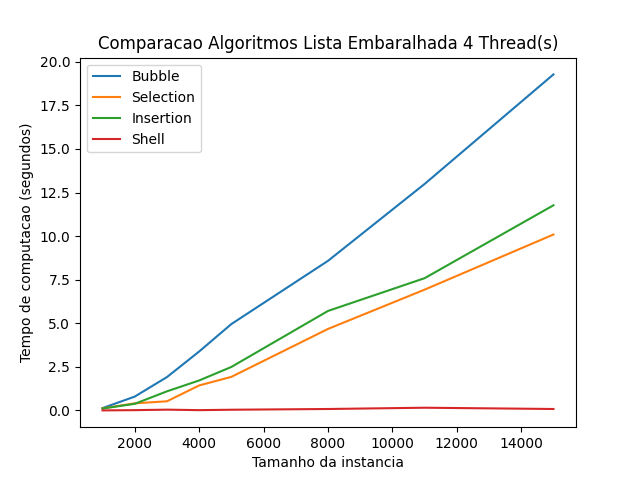
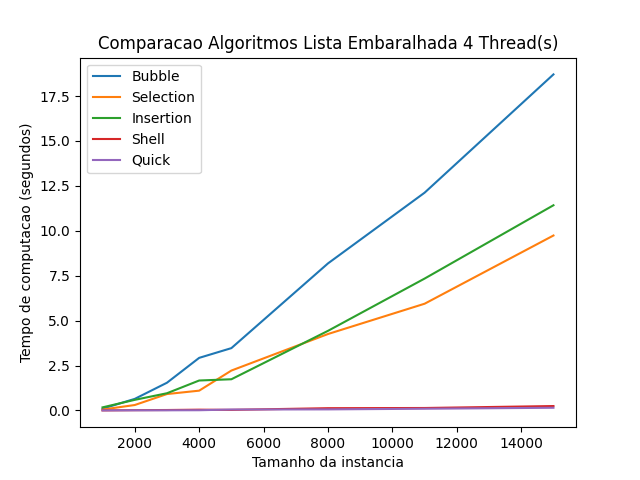
Quick Sort

diff --git a/Quick/Test.py b/Quick/Test.py
@@ -1,0 +1,216 @@
+
+from Quick import Quick
+from concurrent.futures import ProcessPoolExecutor
+import matplotlib.pyplot as plt
+import time
+import sys
+import random
+import matplotlib as mpl
+mpl.use('Agg')
+
+
+class SortAlgorithmTester:
+
+    def create_random_list(self, size) -> list:
+        x = list(range(size))
+        random.shuffle(x)
+        return x
+
+    def worst_case_instance(self, size) -> list:
+        """
+        Retorna uma lista decrescente de tamanho "size"
+        """
+        return list(range(size))[::-1]
+
+    def time_it(self, algorithm, algorithm_name, random_list, instance_size, parameters, label=None) -> dict:
+        if len(parameters) == 1:
+            start = time.time()
+            algorithm(random_list, parameters[0])
+            end = time.time()
+        elif len(parameters) == 2:
+            start = time.time()
+            algorithm(random_list, parameters[0], parameters[1])
+            end = time.time()
+        else:
+            start = time.time()
+            algorithm(random_list, parameters[0])
+            end = time.time()
+        if label:
+            print(f"{label} -> elementos: {instance_size} segundos: %.3f" %
+                  (end - start))
+        return {algorithm_name: [instance_size, end - start]}
+
+    def plot_in_lines_threaded(self, data, cv, label) -> None:
+        x = []
+        y = []
+        for i in range(len(data)):
+            result = data[i].result()
+            x.append(list(result.values())[0][0])
+            y.append(list(result.values())[0][1])
+            print(f"{label} -> elementos: {x[i]} segundos: %.3f" % y[i])
+        cv.plot(x, y, label=label)
+
+    def plot_in_lines(self, data, cv, label) -> None:
+        x = []
+        y = []
+        for i in range(len(data)):
+            result = data[i]
+            x.append(list(result.values())[0][0])
+            y.append(list(result.values())[0][1])
+        cv.plot(x, y, label=label)
+
+    def worst_case_test_threaded(self, algorithms, algorithms_names, instance_sizes, parameters, max_workers=None) -> list:
+        ##### Cronometrar os algoritmos ######
+        futures = []
+        pool = ProcessPoolExecutor(max_workers=max_workers)
+        for i in range(len(algorithms)):
+            random_list = self.worst_case_instance(
+                instance_sizes[i])
+            futures.append(pool.submit(
+                self.time_it, algorithms[i], algorithms_names[i], random_list, instance_sizes[i], parameters[i]))
+        return futures
+        ######################################
+
+    def worst_case_test(self, algorithms, algorithms_names, instance_sizes, parameters) -> list:
+        ##### Cronometrar os algoritmos ######
+        futures = []
+        for i in range(len(algorithms)):
+            worst = self.worst_case_instance(
+                instance_sizes[i])
+            futures.append(
+                self.time_it(
+                    algorithms[i], algorithms_names[i], worst, instance_sizes[i], parameters[i], "Pior Caso")
+            )
+        return futures
+        ######################################
+
+    def random_test_threaded(self, algorithms, algorithms_names, instance_sizes, parameters, max_workers=None) -> list:
+        ##### Cronometrar os algoritmos ######
+        futures = []
+        pool = ProcessPoolExecutor(max_workers=max_workers)
+        for i in range(len(algorithms)):
+            random_list = self.create_random_list(instance_sizes[i])
+            futures.append(pool.submit(
+                self.time_it, algorithms[i], algorithms_names[i], random_list, instance_sizes[i], parameters[i]))
+        return futures
+        ######################################
+
+    def random_test(self, algorithms, algorithms_names, instance_sizes, parameters) -> list:
+        ##### Cronometrar os algoritmos ######
+        futures = []
+        for i in range(len(algorithms)):
+            random_list = self.create_random_list(instance_sizes[i])
+            futures.append(
+                self.time_it(
+                    algorithms[i], algorithms_names[i], random_list, instance_sizes[i], parameters[i], "Aleatorio")
+            )
+        return futures
+        ######################################
+
+    
+
+    def plot_data(self, data_list, title, ylabel, xlabel, workers=None) -> None:
+        ###### Plotar os dados ###############
+        fig, ax = plt.subplots()
+        ax.yaxis.set_major_formatter(formater)
+        ax.xaxis.set_major_formatter(formater)
+        ax.set_ylabel(ylabel)
+        ax.set_xlabel(xlabel)
+        ax.set_title(title)
+        if workers:
+            for i in range(len(data_list)):
+                self.plot_in_lines_threaded(
+                    data_list[i][0], ax, data_list[i][1])
+            ax.legend()
+            fig.savefig(f'QuickSort{workers}Threads.png')
+        else:
+            for i in range(len(data_list)):
+                self.plot_in_lines(data_list[i][0], ax, data_list[i][1])
+            ax.legend()
+            fig.savefig(f'QuickSortSingleThread.png')
+        ######################################
+
+def formater(x, pos):
+        return '{:1.0f}'.format(x*1)
+
+if __name__ == "__main__":
+    if len(sys.argv) > 3 or len(sys.argv) < 2:
+        print("the parameters are: ('threaded' and int) or 'singlethreaded' ")
+    else:
+        if sys.argv[1] == "threaded":
+            try:
+                if int(sys.argv[2]) > 0:
+                    workers = int(sys.argv[2])
+            except Exception as e:
+                raise Exception("second parameter is not int!")
+            paralelizado = True
+        elif sys.argv[1] == "singlethreaded":
+            paralelizado = False
+        else:
+            raise Exception("parameter not identified!")
+        if paralelizado:
+            tester = SortAlgorithmTester()
+            start = time.time()
+            random_test_results = tester.random_test_threaded(
+                [
+                    Quick.crescent_quick
+                ]*6,
+                [
+                    "Quick"
+                ]*6,
+                [100000, 200000, 400000, 700000, 1000000, 5000000],
+                [
+                    [0, 100000-1],
+                    [0, 200000-1],
+                    [0, 400000-1],
+                    [0, 700000-1],
+                    [0, 1000000-1],
+                    [0, 5000000-1],
+                ],
+                workers
+            )
+
+            tester.plot_data(
+                [
+                    (random_test_results, "Aleatorio"),
+                ],
+                f"Comparacao QuickSort MultiThreaded ({workers} threads)",
+                "Tempo de computacao(segundos)",
+                "Tamanho da instancia",
+                workers
+            )
+            end = time.time()
+            print(f"tempo decorrido desde o inicio do teste: %.3f" %
+                  (end - start))
+        else:
+            tester = SortAlgorithmTester()
+            start = time.time()
+            random_test_results = tester.random_test(
+                [
+                    Quick.crescent_quick
+                ]*6,
+                [
+                    "Quick"
+                ]*6,
+                [100000, 200000, 400000, 700000, 1000000, 5000000],
+                [
+                    [0, 100000-1],
+                    [0, 200000-1],
+                    [0, 400000-1],
+                    [0, 700000-1],
+                    [0, 1000000-1],
+                    [0, 5000000-1],
+                ],
+            )
+
+            tester.plot_data(
+                [
+                    (random_test_results, "Aleatorio"),
+                ],
+                "Comparacao QuickSort Single Thread",
+                "Tempo de computacao (segundos)",
+                "Tamanho da instancia"
+            )
+            end = time.time()
+            print(f"tempo decorrido desde o inicio do teste: %.3f" %
+                  (end - start))

diff --git a/Main.py b/Main.py
@@ -8,7 +8,7 @@ from Bubble.Bubble import Bubble
 from Selection.Selection import Selection
 from Insertion.Insertion import Insertion
 from Shell.Shell import Shell
-
+from Quick.Quick import Quick
 
 class SortAlgorithmTester:
 
@@ -18,9 +18,14 @@ class SortAlgorithmTester:
         return x
 
     def time_it(self, algorithm, algorithm_name, random_list, instance_size, label=None) -> dict:
-        start = time.time()
-        algorithm(random_list, instance_size)
-        end = time.time()
+        if algorithm_name == "Quick":
+            start = time.time()
+            algorithm(random_list, 0, instance_size-1)
+            end = time.time()    
+        else:
+            start = time.time()
+            algorithm(random_list, instance_size)
+            end = time.time()
         if label:
             print(f"{label} -> elementos: {instance_size} segundos: %.3f" %
                   (end - start))
@@ -251,13 +256,15 @@ if __name__ == "__main__":
                         Bubble.crescent_sort,
                         Selection.crescent_selection,
                         Insertion.direct_crescent_insertion,
-                        Shell.crescent_shell
+                        Shell.crescent_shell,
+                        Quick.crescent_quick
                     ],
                     [
                         "Bubble",
                         "Selection",
                         "Insertion",
-                        "Shell"
+                        "Shell",
+                        "Quick"
                     ],
                     [
                         1000,
@@ -313,13 +320,15 @@ if __name__ == "__main__":
                         Bubble.crescent_sort,
                         Selection.crescent_selection,
                         Insertion.direct_crescent_insertion,
-                        Shell.crescent_shell
+                        Shell.crescent_shell,
+                        Quick.crescent_quick
                     ],
                     [
                         "Bubble",
                         "Selection",
                         "Insertion",
-                        "Shell"
+                        "Shell",
+                        "Quick"
                     ],
                     [
                         1000,

diff --git a/Merge/MergeSort.py b/Merge/MergeSort.py
@@ -13,20 +13,12 @@ class Merge():
 
         """
         if start < end:
-            if (start+end)%2 == 1:
-                if end - start == 1:
-                    middle = start
-                else:
-                    middle = ((start+end + 1)//2)
-            else:
-                middle = (start+end)//2
+            middle = (start+end)//2
             if start < middle:
-                sortable_list = Merge.crescent_sort(
-                    sortable_list, start, middle)
+                Merge.crescent_sort(sortable_list, start, middle)
             if middle + 1 < end:
-                sortable_list = Merge.crescent_sort(
-                    sortable_list, middle+1, end)
-            sortable_list = Merge.merge(sortable_list, start, middle, end)
+                Merge.crescent_sort(sortable_list, middle+1, end)
+            Merge.merge(sortable_list, start, middle, end)
         return sortable_list
 
     @staticmethod
@@ -53,12 +45,12 @@ class Merge():
                 sortable_list[end - middle + j] = sortable_list[j]
             for i in range(len(aux)):
                 sortable_list[i+start] = aux[i]
-        return sortable_list
+            return sortable_list
 
 
 if __name__ == "__main__":
     s = 20
     x = list(range(s))[::-1]
     random.shuffle(x)
-    print(x)
+    # print(x)
     print(Merge.crescent_sort(x, 0, len(x)-1))

diff --git a/Quick/Quick.py b/Quick/Quick.py
@@ -1,0 +1,39 @@
+import random
+
+
+class Quick:
+
+    @staticmethod
+    def partition(sortable_list, start, end) -> int:
+        pivo = sortable_list[start]
+        i = start + 1
+        j = end
+        while i <= j:
+            while i <= j and sortable_list[i] <= pivo:
+                i += 1
+            while sortable_list[j] > pivo:
+                j -= 1
+            if i <= j:
+                sortable_list[i], sortable_list[j] = sortable_list[j], sortable_list[i]
+                i += 1
+                j -= 1
+        sortable_list[start], sortable_list[j] = sortable_list[j], sortable_list[start]
+        return j
+
+    @staticmethod
+    def crescent_quick(sortable_list, start, end) -> list:
+        if start < end:
+            j = Quick.partition(sortable_list, start, end)
+            if start < j - 1:
+                Quick.crescent_quick(sortable_list, start, j - 1)
+            if j + 1 < end:
+                Quick.crescent_quick(sortable_list, j+1, end)
+        return sortable_list
+
+
+if __name__ == "__main__":
+    s = 1000
+    x = list(range(s))[::-1]
+    random.shuffle(x)
+    # print(x)
+    print(Quick.crescent_quick(x, 0, len(x) - 1))
